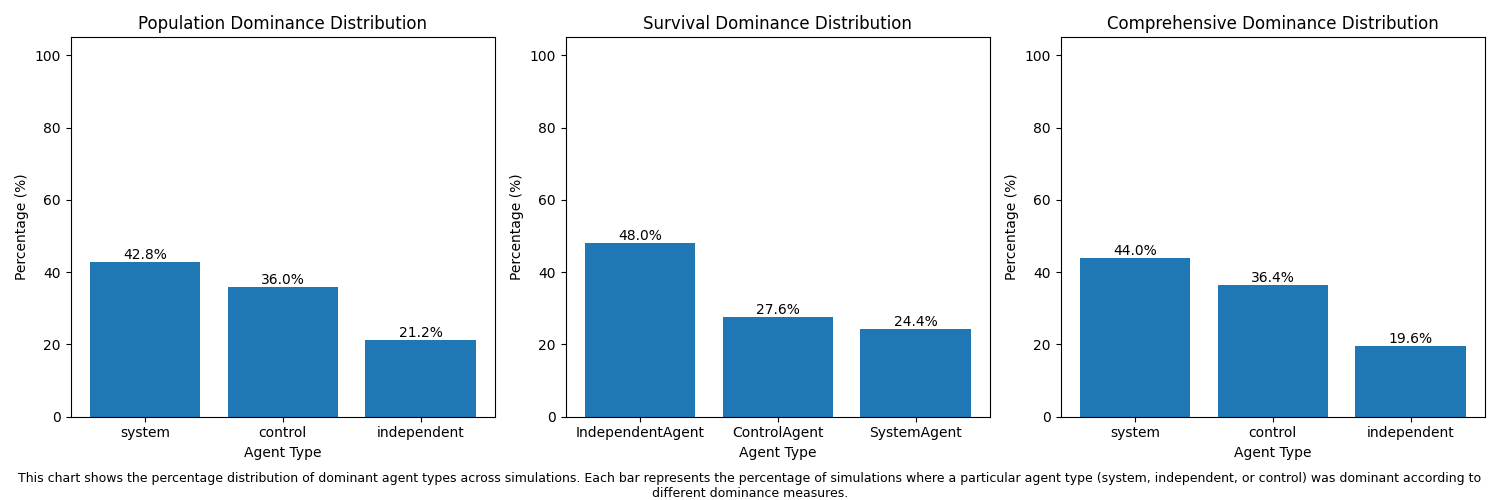
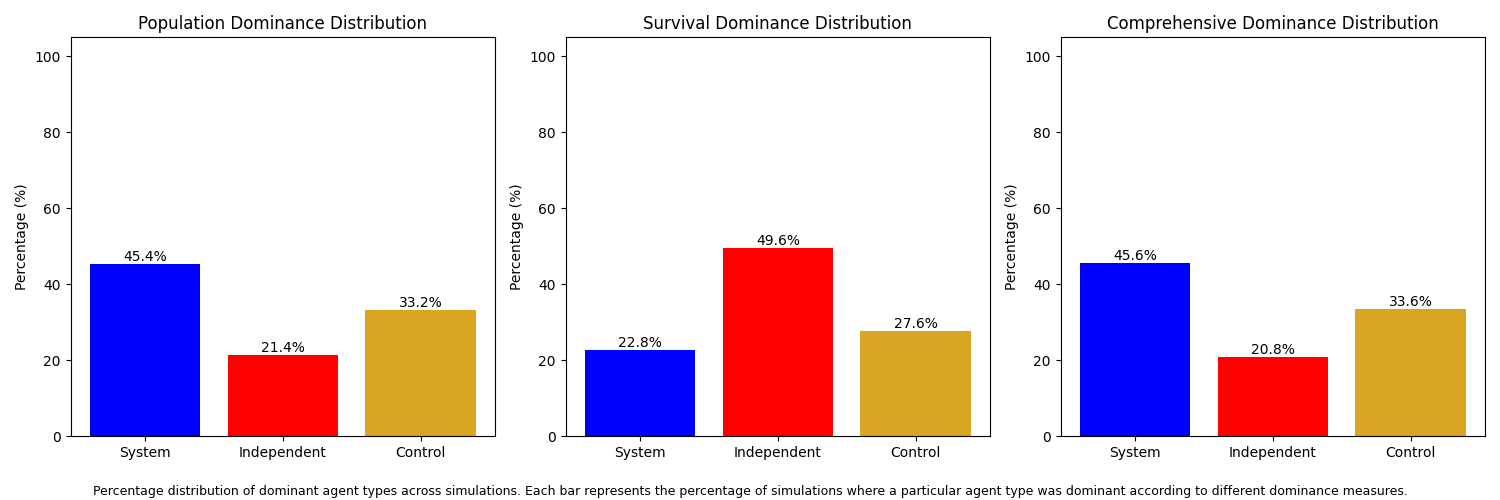
refactor: Enhance dominance analysis visualization and data processing
- Updated dominance plot generation with consistent agent type mapping
- Improved color scheme and labeling for dominance distribution charts
- Added robust handling for missing or inconsistent agent type data
- Simplified and standardized dominance distribution plot captions
- Minor script configuration updates for analysis paths

diff --git a/farm/analysis/dominance/plot.py b/farm/analysis/dominance/plot.py
@@ -30,6 +30,24 @@ def plot_dominance_distribution(df, output_path):
     if n_plots == 1:
         axes = [axes]
 
+    # Define consistent agent order and color scheme
+    agent_types = ["system", "independent", "control"]
+    colors = {
+        "system": "blue",
+        "independent": "red",
+        "control": "#DAA520",
+    }  # Goldenrod for control
+
+    # Define mapping between different agent type naming formats
+    agent_type_mapping = {
+        "SystemAgent": "system",
+        "IndependentAgent": "independent",
+        "ControlAgent": "control",
+        "system": "system",
+        "independent": "independent",
+        "control": "control",
+    }
+
     # Plot each dominance measure
     for i, measure in enumerate(available_measures):
         # Get counts and convert to percentages
@@ -37,24 +55,73 @@ def plot_dominance_distribution(df, output_path):
         total = counts.sum()
         percentages = (counts / total) * 100
 
-        # Plot percentages
-        axes[i].bar(percentages.index, percentages.values)
+        # Log the percentages for debugging
+        logging.info(f"Percentages for {measure}: {percentages}")
+
+        # Create a consistent DataFrame with all agent types
+        # This ensures the same order and includes all agent types even if some have 0%
+        ordered_percentages = pd.Series(0, index=agent_types)
+
+        # Map agent types to consistent format
+        for agent in percentages.index:
+            # Map the agent type to our standard format if possible
+            standard_agent_type = agent_type_mapping.get(agent)
+
+            if standard_agent_type in agent_types:
+                ordered_percentages[standard_agent_type] = percentages[agent]
+            else:
+                logging.warning(f"Unknown agent type in {measure}: {agent}")
+
+        # Log the ordered percentages for debugging
+        logging.info(f"Ordered percentages for {measure}: {ordered_percentages}")
+
+        # For survival dominance, ensure we have data
+        if measure == "survival_dominance" and ordered_percentages.sum() == 0:
+            logging.warning(f"No data for survival_dominance, using placeholder data")
+            # If there's no data, check if we can derive it from the DataFrame
+            if "survival_rate" in df.columns:
+                # Try to derive dominance from survival rates
+                for agent_type in agent_types:
+                    col = f"{agent_type}_survival_rate"
+                    if col in df.columns:
+                        avg_survival = df[col].mean()
+                        ordered_percentages[agent_type] = avg_survival * 100
+
+                # Normalize to ensure percentages sum to 100
+                if ordered_percentages.sum() > 0:
+                    ordered_percentages = (
+                        ordered_percentages / ordered_percentages.sum()
+                    ) * 100
+                    logging.info(f"Derived survival dominance: {ordered_percentages}")
+
+        # Plot percentages with consistent colors
+        bars = axes[i].bar(
+            ordered_percentages.index,
+            ordered_percentages.values,
+            color=[colors.get(agent, "gray") for agent in ordered_percentages.index],
+        )
+
         axes[i].set_title(f"{measure.replace('_', ' ').title()} Distribution")
         axes[i].set_ylabel("Percentage (%)")
-        axes[i].set_xlabel("Agent Type")
+        axes[i].set_xlabel("")
 
         # Add percentage labels on top of each bar
-        for j, p in enumerate(percentages):
-            axes[i].annotate(f"{p:.1f}%", (j, p), ha="center", va="bottom")
+        for j, p in enumerate(ordered_percentages):
+            if p > 0:  # Only add label if percentage is greater than 0
+                axes[i].annotate(f"{p:.1f}%", (j, p), ha="center", va="bottom")
 
         # Set y-axis limit to slightly above 100% to make room for annotations
         axes[i].set_ylim(0, 105)
 
+        # Set consistent x-tick labels with capitalized agent types
+        axes[i].set_xticks(range(len(agent_types)))
+        axes[i].set_xticklabels([agent.capitalize() for agent in agent_types])
+
     # Add caption
     caption = (
-        "This chart shows the percentage distribution of dominant agent types across simulations. "
+        "Percentage distribution of dominant agent types across simulations. "
         "Each bar represents the percentage of simulations where a particular agent type "
-        "(system, independent, or control) was dominant according to different dominance measures."
+        "was dominant according to different dominance measures."
     )
     plt.figtext(0.5, 0.01, caption, wrap=True, horizontalalignment="center", fontsize=9)
 

diff --git a/scripts/dominance_analysis.py b/scripts/dominance_analysis.py
@@ -4,9 +4,9 @@ import os
 from datetime import datetime
 
 # Import analysis configuration
-from analysis_config import DATA_PATH, OUTPUT_PATH
-
 from analysis_config import (
+    DATA_PATH,
+    OUTPUT_PATH,
     check_reproduction_events,
     safe_remove_directory,
     setup_logging,

diff --git a/docs/experiments/one_of_a_kind/Dominance.md b/docs/experiments/one_of_a_kind/Dominance.md
@@ -13,15 +13,7 @@ This report analyzes the dominance patterns observed across 250 simulations in t
 
 ## 1. Dominance Distribution
 
-Three different measures of dominance were analyzed (see [Dominance Measures](Measures.md) for detailed explanations of each measure):
-
-| Dominance Measure | System | Independent | Control |
-|-------------------|--------|-------------|---------|
-| Population Dominance | 42.8% | 21.2% | 36.0% |
-| Survival Dominance | 24.4% | 48.0% | 27.6% |
-| Comprehensive Dominance | 44.0% | 19.6% | 36.4% |
-
-Key observations:
+Key observations: (see [Dominance Measures](Measures.md) for detailed explanations of each measure)
 - **System agents** excel at population growth, leading in both population and comprehensive dominance measures.
 - **Independent agents** show superior survival skills (48% survival dominance) but struggle to convert this into overall dominance.
 - **Control agents** maintain a balanced performance across all dominance measures.
@@ -29,10 +21,10 @@ Key observations:
 The comprehensive dominance measure, which considers multiple factors including population growth, recency-weighted presence, and dominance duration, provides the most holistic view of agent performance.
 
 ![Dominance Distribution](images/dominance_distribution.png)
-*Figure 1: Distribution of dominance across agent types for different dominance measures.*
+
 
 ![Dominance Comparison](images/dominance_comparison.png)
-*Figure 2: Comparison of different dominance measures and their relationships.*
+
 
 ## 2. Dominance Switching Patterns
 
